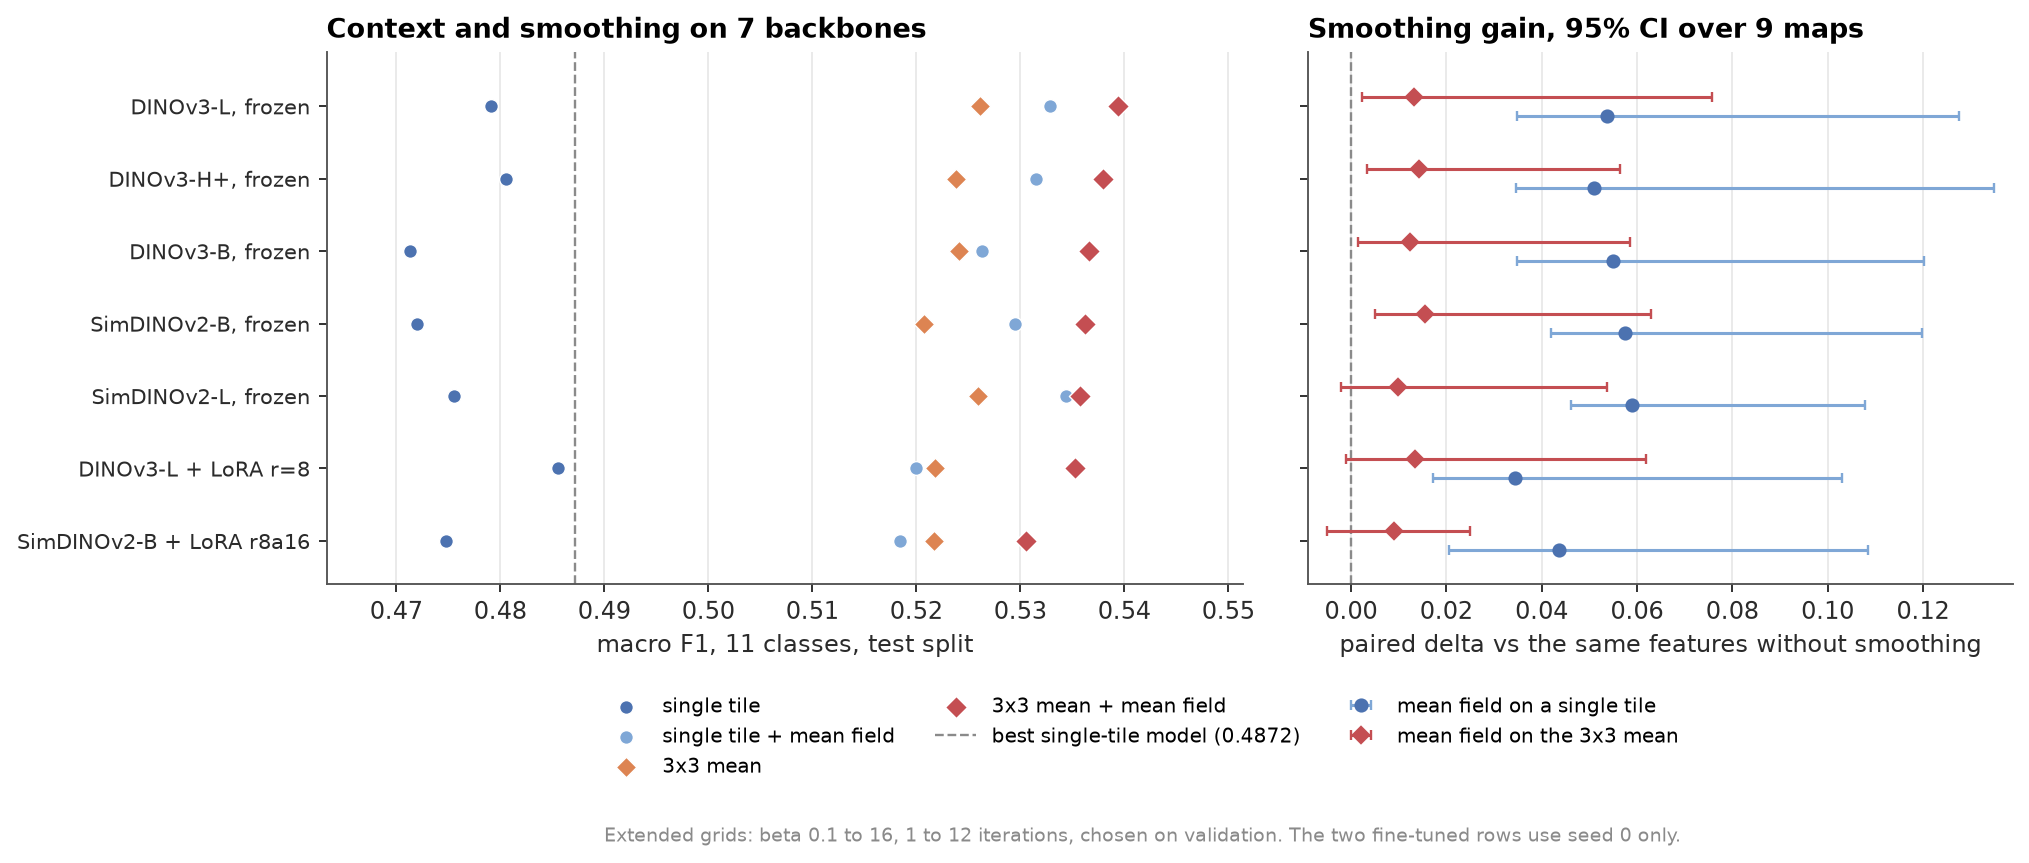
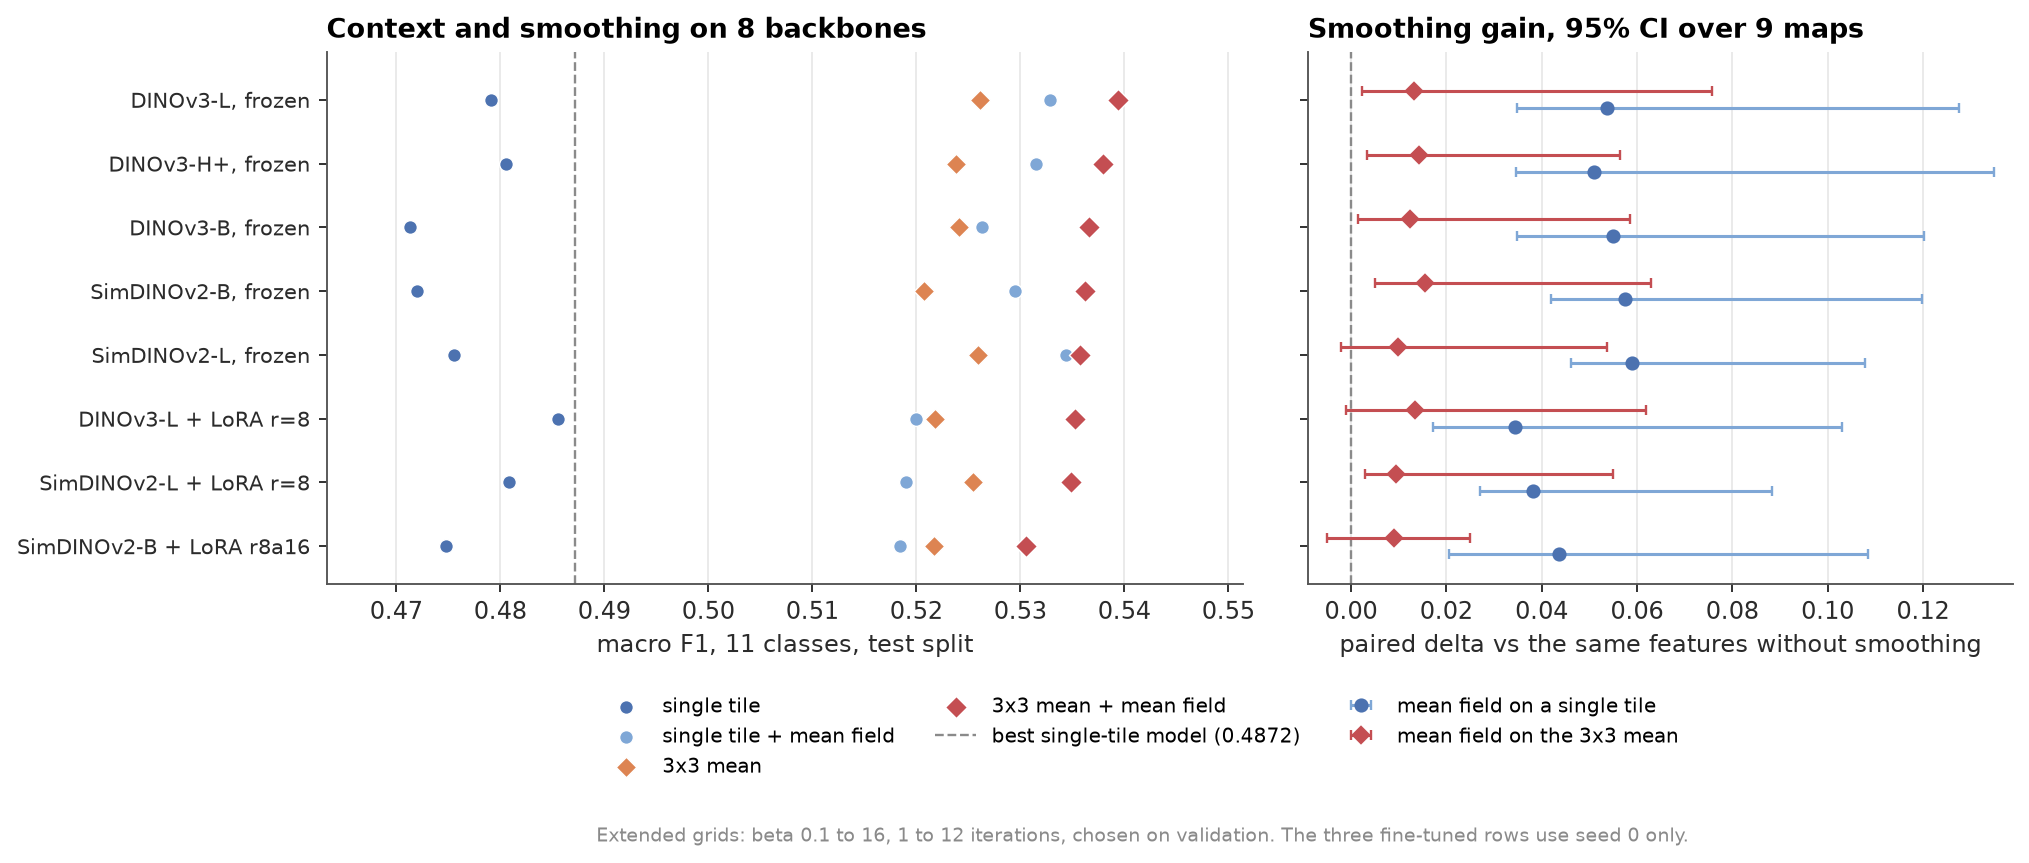
context: add SimDINOv2-L LoRA row and paired PEFT-vs-frozen comparison (PEFT advantage does not survive smoothing)

diff --git a/research/gnn_grid_2026-10-31/code/compare_peft_pairs.py b/research/gnn_grid_2026-10-31/code/compare_peft_pairs.py
@@ -1,0 +1,111 @@
+#!/usr/bin/env python3
+"""Paired comparison of a fine-tuned (PEFT) run against its own frozen backbone.
+
+For each pair, compares on the same test tiles and the same 9 maps:
+  - single tile (R0),
+  - 3x3 mean + mean field (R3_MF),
+  - the smoothing gain itself, (R3_MF - R3_base), PEFT minus frozen.
+with a hierarchical bootstrap over maps, as in compare_arms.py.
+
+Usage:
+    python compare_peft_pairs.py --root $SCRATCH/context_multibackbone/out \
+        --out results/tile_context_2026-11-01/peft_pairs.csv
+"""
+from __future__ import annotations
+
+import argparse
+import csv
+import json
+import os
+
+import numpy as np
+
+PAIRS = [
+    ("dinov3_vitl16_lvd", "dinov3_vitl16_lvd_lora_s0", "DINOv3-L"),
+    ("simdinov2_vitb16", "simdinov2_vitb16_lora_r8a16_s0", "SimDINOv2-B"),
+    ("simdinov2_vitl16", "simdinov2_vitl16_lora_s0", "SimDINOv2-L"),
+]
+K = 11
+
+
+def f1(y: np.ndarray, p: np.ndarray) -> float:
+    cm = np.bincount(y * K + p, minlength=K * K).reshape(K, K)
+    tp = np.diag(cm).astype(float)
+    d = cm.sum(1) + cm.sum(0)
+    f = np.where(d > 0, 2 * tp / np.maximum(d, 1), np.nan)
+    return float(f[~np.isnan(f)].mean())
+
+
+def main() -> None:
+    ap = argparse.ArgumentParser()
+    ap.add_argument("--root", required=True)
+    ap.add_argument("--split", default=None)
+    ap.add_argument("--out", required=True)
+    ap.add_argument("--boot", type=int, default=10000)
+    ap.add_argument("--seed", type=int, default=7)
+    a = ap.parse_args()
+
+    here = os.path.dirname(os.path.abspath(__file__))
+    split = a.split or os.path.join(os.path.dirname(here), "out/canonical_split.json")
+    tiles = json.load(open(split))["tiles"]
+    te = [t for t in tiles if t["split"] == "test"]
+    y = np.array([t["label"] for t in te])
+    ortho = np.array([t["ortho"] for t in te])
+    names = sorted(set(ortho))
+    groups = {o: np.where(ortho == o)[0] for o in names}
+
+    def pred(bb: str, arm: str) -> np.ndarray:
+        return np.load(os.path.join(a.root, bb, "preds", f"{arm}.npy"))
+
+    def boot(pa: np.ndarray, pb: np.ndarray) -> tuple[float, float, float, float]:
+        rng = np.random.RandomState(a.seed)
+        d = np.empty(a.boot)
+        for i in range(a.boot):
+            pick = rng.choice(names, size=len(names), replace=True)
+            idx = np.concatenate([groups[o][rng.randint(0, len(groups[o]), len(groups[o]))] for o in pick])
+            d[i] = f1(y[idx], pa[idx]) - f1(y[idx], pb[idx])
+        lo, hi = np.percentile(d, [2.5, 97.5])
+        p = 2 * min((d <= 0).mean(), (d >= 0).mean())
+        return float(np.mean(d)), float(lo), float(hi), float(p)
+
+    rows = []
+    for frozen, peft, label in PAIRS:
+        try:
+            pr, fr = pred(peft, "R0_base"), pred(frozen, "R0_base")
+            pm, fm = pred(peft, "R3_MF"), pred(frozen, "R3_MF")
+            pb, fb = pred(peft, "R3_base"), pred(frozen, "R3_base")
+        except FileNotFoundError:
+            print(f"[skip] {label}: missing predictions")
+            continue
+        _, l0, h0, p0 = boot(pr, fr)
+        _, lm, hm, pm_p = boot(pm, fm)
+        d0 = f1(y, pr) - f1(y, fr)
+        dm = f1(y, pm) - f1(y, fm)
+        # difference of smoothing gains, (PEFT MF - PEFT base) - (frozen MF - frozen base)
+        rng = np.random.RandomState(a.seed)
+        d = np.empty(max(a.boot // 2, 1000))
+        for i in range(len(d)):
+            pick = rng.choice(names, size=len(names), replace=True)
+            idx = np.concatenate([groups[o][rng.randint(0, len(groups[o]), len(groups[o]))] for o in pick])
+            d[i] = (f1(y[idx], pm[idx]) - f1(y[idx], pb[idx])) - (f1(y[idx], fm[idx]) - f1(y[idx], fb[idx]))
+        rows.append({"pair": label, "frozen": frozen, "peft": peft,
+                     "frozen_R0": f1(y, fr), "peft_R0": f1(y, pr),
+                     "d_R0": d0, "lo_R0": l0, "hi_R0": h0, "p_R0": p0,
+                     "frozen_R3_MF": f1(y, fm), "peft_R3_MF": f1(y, pm),
+                     "d_R3_MF": dm, "lo_R3_MF": lm, "hi_R3_MF": hm, "p_R3_MF": pm_p,
+                     "d_gain": (f1(y, pm) - f1(y, pb)) - (f1(y, fm) - f1(y, fb)),
+                     "lo_gain": float(np.percentile(d, 2.5)),
+                     "hi_gain": float(np.percentile(d, 97.5))})
+
+    if not rows:
+        raise SystemExit(f"[peft] no pairs found under {a.root}")
+    os.makedirs(os.path.dirname(a.out) or ".", exist_ok=True)
+    with open(a.out, "w", newline="") as f:
+        w = csv.DictWriter(f, fieldnames=list(rows[0]))
+        w.writeheader()
+        w.writerows(rows)
+    print(f"[peft] wrote {a.out} ({len(rows)} pairs)")
+
+
+if __name__ == "__main__":
+    main()

diff --git a/scripts/make_readme_plots.py b/scripts/make_readme_plots.py
@@ -641,6 +641,7 @@ MB_LABELS = {
     "simdinov2_vitl16": "SimDINOv2-L, frozen",
     "dinov3_vitl16_lvd_lora_s0": "DINOv3-L + LoRA r=8",
     "simdinov2_vitb16_lora_r8a16_s0": "SimDINOv2-B + LoRA r8a16",
+    "simdinov2_vitl16_lora_s0": "SimDINOv2-L + LoRA r=8",
 }
 
 
@@ -676,7 +677,7 @@ def fig_multibackbone():
     h, l = a.get_legend_handles_labels()
     h.append(plt.Line2D([], [], color=COL["grey"], ls="--", lw=1))
     l.append(f"best single-tile model ({ref:.4f})")
-    a.set_title("Context and smoothing on 7 backbones")
+    a.set_title("Context and smoothing on 8 backbones")
 
     b.axvline(0, color=COL["grey"], ls="--", lw=1)
     b.errorbar(d["d_mf_R0"], y - 0.13, xerr=[d["d_mf_R0"] - d["lo_mf_R0"], d["hi_mf_R0"] - d["d_mf_R0"]],
@@ -698,7 +699,7 @@ def fig_multibackbone():
                bbox_to_anchor=(0.5, 0.07))
     fig.subplots_adjust(bottom=0.3)
     fig.text(0.5, 0.015, "Extended grids: beta 0.1 to 16, 1 to 12 iterations, chosen on validation. "
-             "The two fine-tuned rows use seed 0 only.", fontsize=8, color=COL["grey"],
+             "The three fine-tuned rows use seed 0 only.", fontsize=8, color=COL["grey"],
              va="bottom", ha="center")
     save(fig, "09_multibackbone.png")
 

diff --git a/README.md b/README.md
@@ -113,7 +113,7 @@ All rows use the same frozen SimDINOv2-B/16 embeddings and the canonical probe. 
 
 ![Context and smoothing on seven backbones](figures/readme/09_multibackbone.png)
 
-Same canonical split, same probe, same tile graph, seven backbones: five frozen (SimDINOv2-B, SimDINOv2-L, DINOv3-B, DINOv3-L, DINOv3-H+) and two LoRA fine-tunes (DINOv3-L r=8 and SimDINOv2-B r8a16, seed 0). The smoothing grids are wider than in the original run (beta 0.1 to 16, 1 to 12 iterations), still chosen on validation. The SimDINOv2-B row matches the decoding run to 0.0001 / 0.0000 / 0.0003: 0.4720 / 0.5207 / 0.5362 against 0.4719 / 0.5207 / 0.5359. The probe-arms run reads 0.4718 / 0.5205.
+Same canonical split, same probe, same tile graph, eight backbones: five frozen (SimDINOv2-B, SimDINOv2-L, DINOv3-B, DINOv3-L, DINOv3-H+) and three LoRA fine-tunes (DINOv3-L r=8, SimDINOv2-B r8a16, SimDINOv2-L r=8, all seed 0). The smoothing grids are wider than in the original run (beta 0.1 to 16, 1 to 12 iterations), still chosen on validation. The SimDINOv2-B row matches the decoding run to 0.0001 / 0.0000 / 0.0003: 0.4720 / 0.5207 / 0.5362 against 0.4719 / 0.5207 / 0.5359. The probe-arms run reads 0.4718 / 0.5205.
 
 | Backbone | Single tile | + mean field | 3x3 mean | 3x3 + mean field | Mean field on 3x3, 95% CI |
 |---|---:|---:|---:|---:|---|
@@ -124,13 +124,29 @@ Same canonical split, same probe, same tile graph, seven backbones: five frozen 
 | SimDINOv2-L, frozen | 0.4756 | 0.5344 | 0.5259 | 0.5357 | +0.0098 [-0.002, 0.054] |
 | DINOv3-L + LoRA r=8, seed 0 | 0.4856 | 0.5200 | 0.5218 | 0.5353 | +0.0135 [-0.001, 0.062] |
 | SimDINOv2-B + LoRA r8a16, seed 0 | 0.4748 | 0.5184 | 0.5217 | 0.5306 | +0.0089 [-0.005, 0.025] |
+| SimDINOv2-L + LoRA r=8, seed 0 | 0.4808 | 0.5191 | 0.5254 | 0.5349 | +0.0094 [0.003, 0.055] |
 
-- Smoothing a single tile helps on all seven backbones: +0.034 to +0.059 F1, and every interval excludes zero.
-- On top of the 3x3 mean the gain is smaller, +0.009 to +0.015, and excludes zero on four of the seven.
-- After context and smoothing the seven backbones sit between 0.5306 and 0.5394, a 0.009 spread, against 0.4713 to 0.4856 on a single tile (0.014). The spread is smaller after post-processing; no test links the two.
+- Smoothing a single tile helps on all eight backbones: +0.034 to +0.059 F1, and every interval excludes zero.
+- On top of the 3x3 mean the gain is smaller, +0.009 to +0.015, and excludes zero on five of the eight.
+- After context and smoothing the eight backbones sit between 0.5306 and 0.5394, a 0.009 spread, against 0.4713 to 0.4856 on a single tile (0.014). The spread is smaller after post-processing; no test links the two.
 - Highest point estimate: DINOv3-L frozen, 0.5394. DINOv3-H+ is 0.0014 behind and no paired test between backbones was computed, so this is an ordering of point estimates. The SimDINOv2-B reference reads 0.5362 here and 0.5359 in its own run.
-- On the 3x3 arm, four of the seven rows sit off the boundary; DINOv3-H+ and DINOv3-L still select the maximum number of iterations (12), and the SimDINOv2-B LoRA row selects the maximum beta (16). On the single-tile arm, five of seven rows sit at a boundary. The smoothing gain may therefore still be under-estimated.
-- The two fine-tuned rows use seed 0 only; the frozen models have one run anyway, so none of these rows carries an inter-seed interval.
+- On the 3x3 arm, five of the eight rows sit off the boundary; DINOv3-H+ and DINOv3-L still select the maximum number of iterations (12), and the SimDINOv2-B LoRA row selects the maximum beta (16). On the single-tile arm, several rows also sit at a boundary. The smoothing gain may therefore still be under-estimated.
+- The three fine-tuned rows use seed 0 only; the frozen models have one run anyway, so none of these rows carries an inter-seed interval.
+
+
+### Does PEFT help under context and smoothing?
+
+Each fine-tuned row above has a frozen counterpart on the same backbone. Paired over the same 9 maps:
+
+| Pair | Single tile, PEFT minus frozen | 3x3 + mean field, PEFT minus frozen | Difference in smoothing gain |
+|---|---|---|---|
+| DINOv3-L | +0.0064 [-0.041, +0.020] | -0.0042 [-0.108, +0.010] | +0.0002 [-0.058, +0.012] |
+| SimDINOv2-B | +0.0028 [-0.011, +0.018] | -0.0056 [-0.051, +0.010] | -0.0065 [-0.052, +0.0003] |
+| SimDINOv2-L | +0.0053 [-0.009, +0.013] | -0.0009 [-0.012, +0.016] | -0.0004 [-0.008, +0.041] |
+
+- On a single tile, PEFT is nominally ahead in all three pairs (+0.003 to +0.006), as the 42-model ranking also shows.
+- After context and smoothing, that advantage is gone and slightly reversed (-0.006 to 0.000). None of the three differences is separable from zero at 9 maps.
+- The smoothing gain itself is not larger for PEFT (from -0.007 to +0.000). So there is no evidence that adaptation adds anything once the neighbourhood is used; the direction is consistent across the three pairs but the design cannot certify it.
 
 ## Learned aggregation
 
@@ -280,7 +296,8 @@ Two things to know:
 | Per-class table | tile counts, per-class F1 | `splits/*_11cls.csv`, `per_class_f1.csv` |
 | Non-linear readouts | 0 of 33, 2 of 24 | `results/rapport_data/head_sweep_summary.csv` |
 | Context and aggregation arms, 8 classes | 12 arms, two schemas | `results/tile_context_2026-11-01/arms_8cls.csv` |
-| Context and smoothing on 7 backbones | F1, paired deltas | `results/tile_context_2026-11-01/multibackbone_smoothing.csv` |
+| Context and smoothing on 8 backbones | F1, paired deltas | `results/tile_context_2026-11-01/multibackbone_smoothing.csv` |
+| PEFT against its frozen backbone | paired differences | `results/tile_context_2026-11-01/peft_pairs.csv` |
 | Deployable or upper bound | flag per configuration | `results/baseline_clean_2026-10-08/summary.csv` |
 
 Two 8-class conventions exist in the committed files. `arms_8cls.csv` and `per_class_f1.csv` keep the 321 dropped-class test tiles, which is the convention of the `f1_macro_8cls_test` field written by each run. The `f1_8cls` fields in `recipe_comparisons.json` and `gnn_canonical.json` remove those tiles before scoring, which is about 0.006 higher. The README table and figure use the first.
